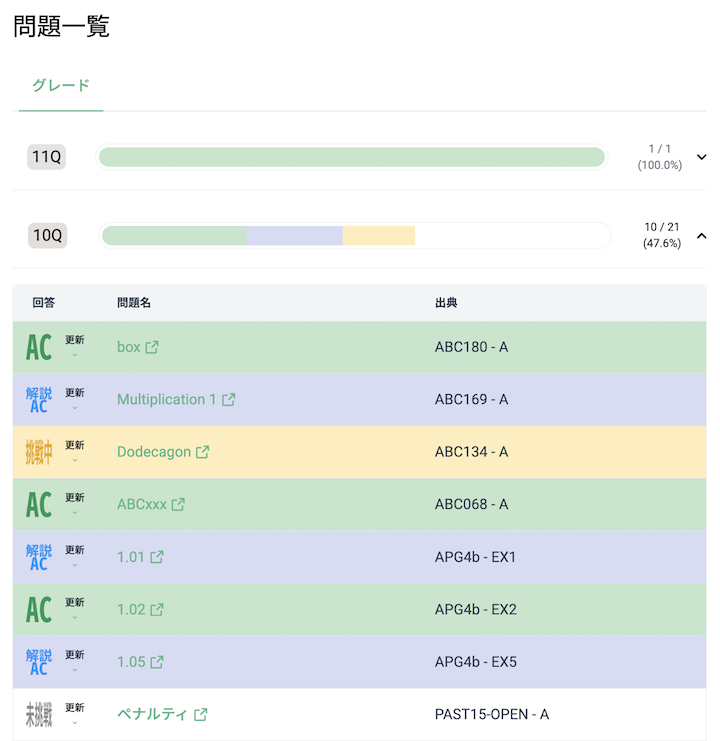
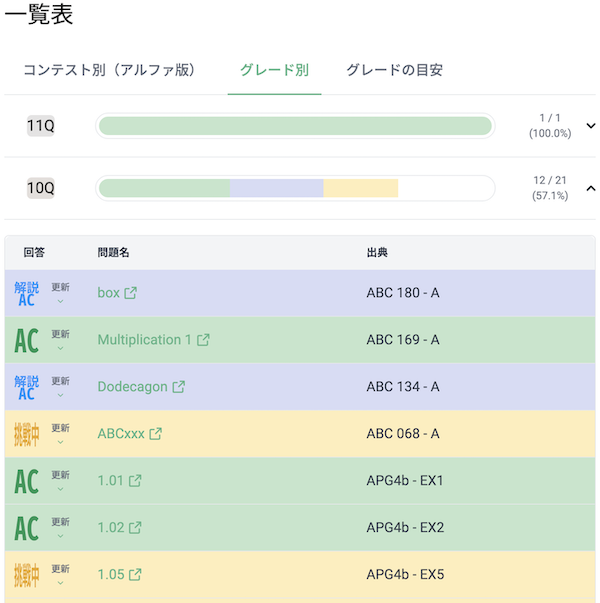
:art: Update demo (#1922)

diff --git a/src/routes/+page.svelte b/src/routes/+page.svelte
@@ -14,6 +14,11 @@
 
   const problemImages = [
     {
+      alt: 'Contest Table',
+      src: '../../contest_table.png',
+      title: 'contest-table',
+    },
+    {
       alt: 'List of problems',
       src: '../../grade_11Q_4Q.png',
       title: 'List-of-problems',
@@ -71,7 +76,7 @@
     <div class="flex flex-wrap justify-center items-center mb-8 xs:mb-12">
       <video
         width="720"
-        src="https://github.com/user-attachments/assets/690bae58-f653-4b0d-9342-5f6813dcc7e8"
+        src="https://github.com/user-attachments/assets/fec06b21-dc31-497f-80bc-181e64394da9"
         autoplay
         muted
         controls

diff --git a/README.md b/README.md
@@ -36,7 +36,7 @@
 <div align="center">
   <video
     width="720"
-    src="https://github.com/user-attachments/assets/690bae58-f653-4b0d-9342-5f6813dcc7e8"
+    src="https://github.com/user-attachments/assets/fec06b21-dc31-497f-80bc-181e64394da9"
     autoplay
     muted
     controls
